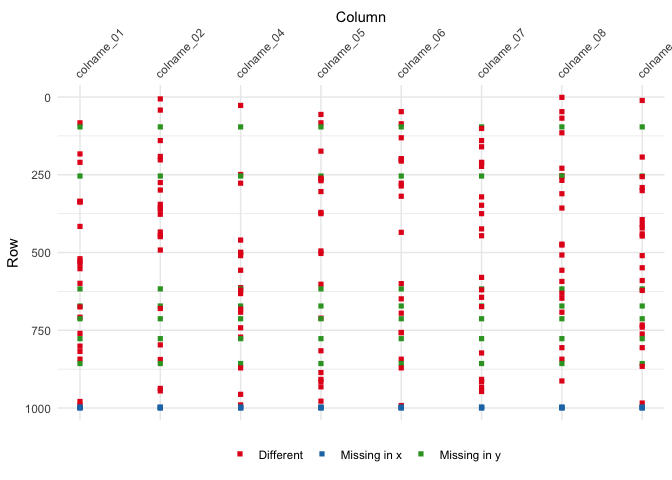
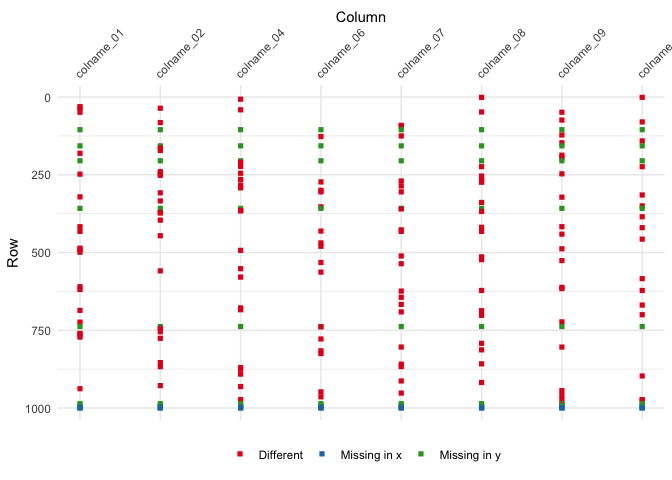
Rename miss_count to n_diff in diff_tbl and update output in summary() #7

diff --git a/README.md b/README.md
@@ -18,42 +18,42 @@ Suppose you have two data sets that you would like to compare.
 
 ``` r
 x
-#> # A tibble: 996 x 11
-#> # Groups:   id_01, id_02 [996]
-#>    id_01 id_02 colname_01 colname_02 colname_03 colname_04 colname_05
-#>    <chr> <chr> <chr>      <chr>           <int> <fct>           <int>
-#>  1 jwmq… nhxu… pwxvgf     uvwtvc             20 b                 -37
-#>  2 edps… yjhk… hrlqtz     hxeucz             46 a                   7
-#>  3 ykal… sazu… abptix     jiuvod            -20 g                   7
-#>  4 bemr… plsf… bwgyok     vzvsuj             -2 c                 -14
-#>  5 rseu… umjp… wghpbq     ldkdbn             -2 h                 -29
-#>  6 mded… rlyy… gaezvt     wiirlg              3 c                 -38
-#>  7 qxqd… mtgl… phunsl     bsxvoo             50 a                   3
-#>  8 rwau… htcy… irboxg     kacplf            -11 h                 -28
-#>  9 jlfb… foac… iweywv     sxcnhv              8 h                 -38
-#> 10 pird… aqoe… vsnlia     vovrjp            -35 i                  33
-#> # ... with 986 more rows, and 4 more variables: colname_06 <int>,
-#> #   colname_07 <chr>, colname_08 <chr>, colname_10 <int>
+#> # A tibble: 997 x 11
+#> # Groups:   id_01, id_02 [997]
+#>    id_01 id_02 colname_01 colname_02 colname_04 colname_05 colname_06
+#>    <int> <chr>      <dbl>      <int>      <dbl> <fct>      <fct>     
+#>  1   148 maqt…       62.7        -32    26.7    c          a         
+#>  2   397 bfqt…       55.4         38    46.5    b          h         
+#>  3   167 oqxt…       19.7        -33    66.6    c          i         
+#>  4   105 vyfo…       26.5        -41    56.0    a          e         
+#>  5   583 wzzf…       52.8        -26     0.0360 g          a         
+#>  6   693 ykuj…       42.8          2    89.5    f          h         
+#>  7   637 kcxq…       18.2        -29    14.5    d          e         
+#>  8   777 vcsx…       42.7         19    43.0    c          h         
+#>  9   814 mrrz…       73.9         28    69.4    g          d         
+#> 10   933 yusl…       25.2        -44    20.4    j          i         
+#> # ... with 987 more rows, and 4 more variables: colname_07 <chr>,
+#> #   colname_08 <chr>, colname_09 <chr>, colname_10 <fct>
 ```
 
 ``` r
 y
 #> # A tibble: 993 x 10
 #> # Groups:   id_01, id_02 [993]
-#>    id_01 id_02 colname_01 colname_02 colname_04 colname_05 colname_06
-#>    <chr> <chr> <chr>      <chr>      <fct>      <chr>           <int>
-#>  1 bwjl… lhri… ajltcz     fyznuc     f          18                 38
-#>  2 pefj… vdeh… mslfwp     spoxof     a          -16               -18
-#>  3 yeev… jwue… leisxo     qmbpdo     h          10                -29
-#>  4 herd… anfh… fdprqg     mtdacb     a          -27               -19
-#>  5 ydmj… pjrk… vgvkqn     lclsci     f          31                 46
-#>  6 pdnv… vzdq… safrup     lahlvy     i          19                -46
-#>  7 wohv… xwti… uxtimp     zuvrqb     f          -21               -44
-#>  8 lpqc… atog… iaynzf     trmxkp     b          46                 44
-#>  9 lzrs… oyyr… trjucy     jmtbxm     f          -28               -40
-#> 10 fmbt… hlip… iegvcp     ofcqmh     e          20                -14
-#> # ... with 983 more rows, and 3 more variables: colname_07 <chr>,
-#> #   colname_08 <chr>, colname_10 <int>
+#>    id_01 id_02 colname_01 colname_02 colname_04 colname_06 colname_07
+#>    <int> <chr>      <dbl> <chr>           <dbl> <fct>      <chr>     
+#>  1   489 szgh…       9.58 -35              11.7 f          esuqju    
+#>  2   198 twkh…      61.7  34               59.6 i          zhdoss    
+#>  3   612 ttki…      91.4  7                75.6 h          wbjhhf    
+#>  4   873 dsng…      66.7  41               77.5 h          wsudet    
+#>  5    24 mnzo…      45.2  -32              63.4 h          yamuei    
+#>  6    15 lpzc…      42.6  26               60.4 g          flhcox    
+#>  7   757 ygah…      46.3  -42              36.1 b          xrtzih    
+#>  8   909 dmjd…      23.9  50               92.2 d          lvudci    
+#>  9   717 immn…      17.3  -13              16.0 c          csvjhr    
+#> 10   196 ddzh…       5.07 34               72.8 i          orqjut    
+#> # ... with 983 more rows, and 3 more variables: colname_08 <chr>,
+#> #   colname_09 <chr>, colname_10 <fct>
 ```
 
 Both have ID columns `id_01` and `id_02`, but we know they will differ
@@ -66,7 +66,7 @@ in their number of rows and columns and that the rows are unordered.
 ``` r
 > z
 <diff_tbl: x vs y>
-❯ There were 243 differences across 8 cols and 152 rows
+✖ There were 231 differences across 8 cols and 148 rows
 ```
 
 ``` r
@@ -75,35 +75,35 @@ in their number of rows and columns and that the rows are unordered.
 # Dimensions
     set    rows  cols
     ----- ----- -----
-    x       996    11
+    x       997    11
     y       993    10
 
 # Columns
-● x has 1 unique column:
-    `colname_03`
-● There are 10 columns that appear in both
-  ✔ 2 cols are identical: 
+● 1 column in x is not in y:
+    `colname_05`
+● 10 columns appear in both x and y
+  ✔ 2 columns have identical entries: 
     `id_01`, `id_02`
-  ✖ 8 cols have differences: 
-    `colname_01`, `colname_02`, `colname_04`, `colname_05`, `colname_06`, `colname_07`, 
-    `colname_08`, 
+  ✖ 8 columns have differences: 
+    `colname_01`, `colname_02`, `colname_04`, `colname_06`, `colname_07`, `colname_08`, 
+    `colname_09`, 
     `colname_10`
 
 # Differences
-❯ There were 243 differences across 8 cols and 152 rows
-    variable   type.x    type.y    state    miss_count diff             
-    -----      -----     -----     -----         ----- ------           
-    colname_01 character character diff             31 <tibble [31 × 7]>
-    colname_02 character character diff             31 <tibble [31 × 7]>
-    colname_04 factor    factor    diff             29 <tibble [29 × 7]>
-    colname_05 integer   character diff             30 <tibble [30 × 7]>
-    colname_06 integer   integer   diff             29 <tibble [29 × 7]>
-    colname_07 character character diff             31 <tibble [31 × 7]>
-    colname_08 character character diff             31 <tibble [31 × 7]>
-    colname_10 integer   integer   diff             31 <tibble [31 × 7]>
-    id_01      character character same              0 <NULL>           
-    id_02      character character same              0 <NULL>           
-    colname_03 integer   <NA>      unique_x         NA <NULL>           
+✖ There were 231 differences across 8 cols and 148 rows
+    variable   type.x    type.y    state    n_diff diff             
+    -----      -----     -----     -----     ----- ------           
+    colname_01 numeric   numeric   diff         29 <tibble [29 × 7]>
+    colname_02 integer   character diff         30 <tibble [30 × 7]>
+    colname_04 numeric   numeric   diff         30 <tibble [30 × 7]>
+    colname_06 factor    factor    diff         26 <tibble [26 × 7]>
+    colname_07 character character diff         30 <tibble [30 × 7]>
+    colname_08 character character diff         30 <tibble [30 × 7]>
+    colname_09 character character diff         30 <tibble [30 × 7]>
+    colname_10 factor    factor    diff         26 <tibble [26 × 7]>
+    id_01      integer   integer   same          0 <NULL>           
+    id_02      character character same          0 <NULL>           
+    colname_05 factor    <NA>      unique_x     NA <NULL>           
 ```
 
 ``` r
